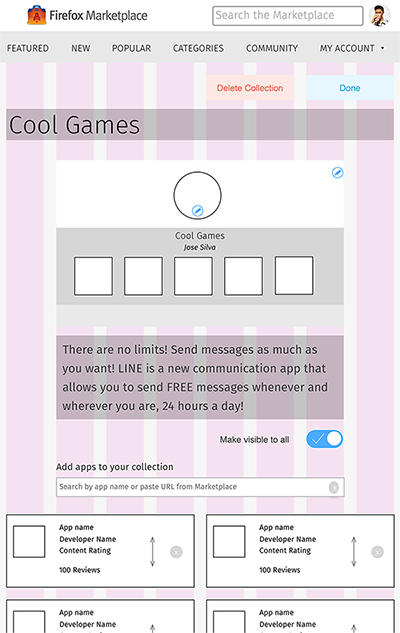
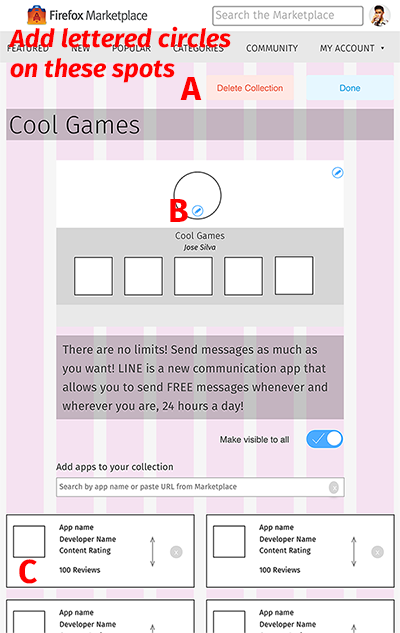
Updated spec images

diff --git a/projectSpecsCollectionsCreate.html b/projectSpecsCollectionsCreate.html
@@ -259,8 +259,10 @@ multisequence: eleven
       Appear above collection name, not parallel to it.</li>
       <li><strong>Description</strong><br/>
       Appears below the collection graphic, not to the right of it.</li>
-      <li><strong>Added app area</strong><br/>
-      Each app block occupies a 3-column space instead of 4. Therefore, each row can only contain up to 2 app blocks, not 3.</li>
+      <li><strong>Added app area (now shown)</strong><br/>
+      After an app is added, it will appear in this area as a block.<br/>
+      <strong>Why is this area not shown here?</strong><br/>
+      This area is not shown on this page because there’s no app added. To see this area, at least one app must be added. Go to the <a href="projectSpecsCollectionsEdit.html#editcollectiontablet">Edit collection interface</a> to see it.</li></li>
     </ol>
 		
 	</div>

diff --git a/projectSpecsCollectionsEdit.html b/projectSpecsCollectionsEdit.html
@@ -118,7 +118,7 @@ multisequence: twelve
     
     <p class="longText">Identical to the <a href="projectSpecsDesktop.html#editcollectionscreendesktop">Desktop layout</a>, except:</p>
 
-    <ol class="longText">
+    <ol class="longText letters">
       <li><strong>Delete Collection and Done button</strong><br/>
         <ul>
           <li>It’s not Cancel and Done, which is used on the Create collection interface.</li>
